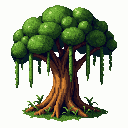
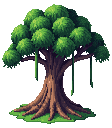
fix arboles act 3

diff --git a/src/main.js b/src/main.js
@@ -7513,6 +7513,13 @@ window.addEventListener('DOMContentLoaded', () => {
         if (name === 'obj_chest_open') path = 'assets/map_objects/treasure_chest_open.png';
         if (name === 'obj_shrine') path = 'assets/map_objects/arcane_shrine.png';
         if (name === 'obj_shrine_used') path = 'assets/map_objects/arcane_shrine_inactive.png';
+        
+        // Tree Overrides (Transparent HD)
+        if (name === 'obj_tree_oak') path = 'assets/obj_tree_oak.png';
+        if (name === 'obj_tree_palm') path = 'assets/obj_tree_palm.png';
+        if (name === 'obj_tree_snowpine') path = 'assets/obj_tree_snowpine.png';
+        if (name === 'obj_tree_dead') path = 'assets/obj_tree_dead.png';
+        if (name === 'obj_tree_banyan') path = 'assets/obj_tree_banyan.png';
 
         Assets.load(name, path);
     }
